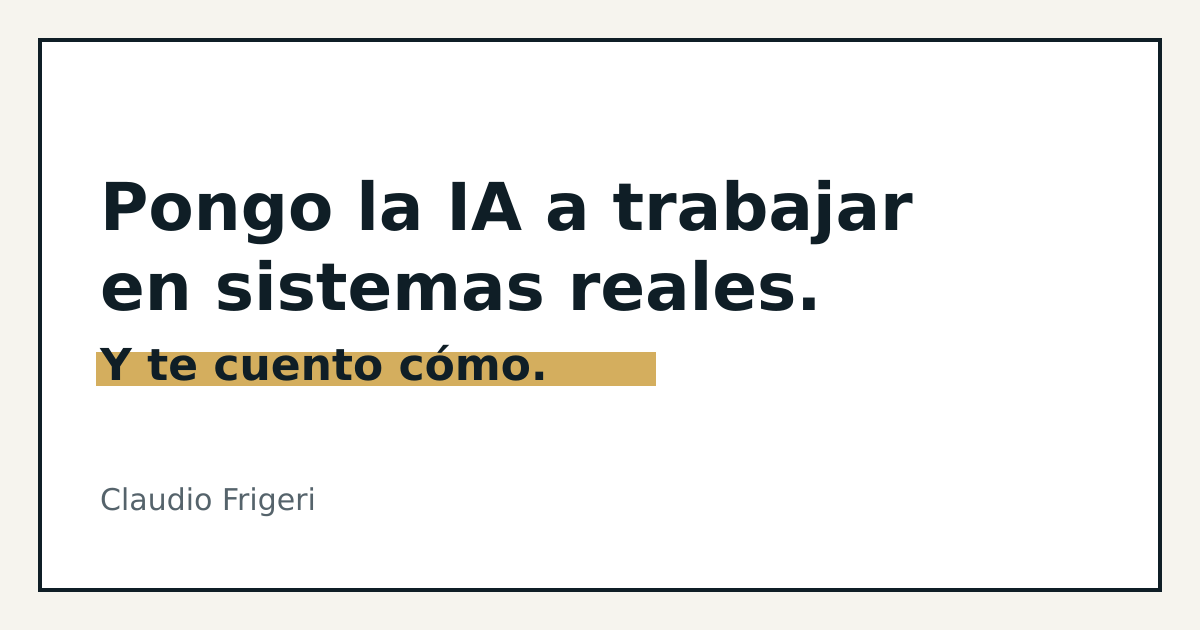
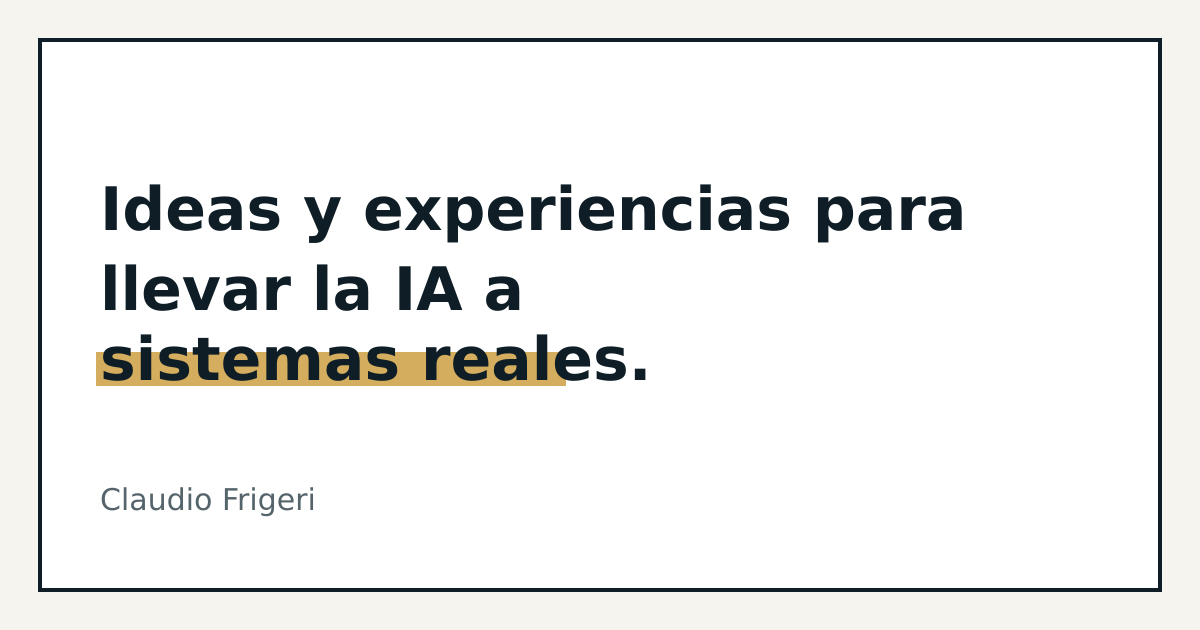
Portada: titular nuevo, sin sección de casos y menú de tres opciones
Claude-Session: https://claude.ai/code/session_01SM9Anh8iQFBrL4DiQMgejn

Changed region(s): [[0.0617, 0.2714, 0.8017, 0.6333]]

diff --git a/src/styles/main.scss b/src/styles/main.scss
@@ -98,7 +98,7 @@ h1, h2, h3 { text-wrap: balance; }
 // ---------- Portada ----------
 .hero { padding: clamp(44px, 7vw, 96px) 0 clamp(48px, 7vw, 88px); }
 .hero-grid { display: grid; grid-template-columns: 1.35fr 1fr; gap: clamp(32px, 6vw, 88px); align-items: center; }
-.hero h1 { font-stretch: 108%; font-size: clamp(2.7rem, 6.6vw, 5.4rem); line-height: 1; letter-spacing: -.02em; margin: 0; }
+.hero h1 { font-stretch: 106%; font-size: clamp(2.4rem, 5vw, 4.2rem); line-height: 1.02; letter-spacing: -.02em; margin: 0; }
 .resaltado { background: linear-gradient(transparent 58%, $oro 58%, $oro 92%, transparent 92%); padding: 0 .06em; }
 .hero p { font-size: clamp(1.1rem, 1.5vw, 1.28rem); line-height: 1.6; color: $gris; max-width: 46ch; margin: 28px 0 34px; }
 .hero p strong { color: $tinta; font-weight: 600; }
@@ -122,15 +122,6 @@ h1, h2, h3 { text-wrap: balance; }
 .seccion-cabeza { display: flex; justify-content: space-between; align-items: end; gap: 24px; flex-wrap: wrap; margin-bottom: clamp(32px, 5vw, 52px); }
 .seccion-cabeza h2, .titulo-grande { font-stretch: 108%; font-size: clamp(2.1rem, 4.4vw, 3.5rem); line-height: 1.02; letter-spacing: -.015em; max-width: 18ch; margin: 0; }
 .seccion-cabeza p { color: $gris; max-width: 44ch; line-height: 1.55; margin: 0; }
-
-.casos { display: grid; grid-template-columns: repeat(3, 1fr); gap: 24px; }
-.caso { border: 2px solid $tinta; background: $blanco; padding: clamp(22px, 2.6vw, 32px); display: grid; gap: 14px; align-content: start; box-shadow: 6px 6px 0 $tinta; }
-.caso h3 { font-stretch: 104%; font-size: clamp(1.35rem, 2vw, 1.65rem); line-height: 1.12; margin: 0; }
-.caso dl { margin: 0; display: grid; gap: 10px; }
-.caso dt { font-weight: 600; font-size: .92rem; color: $petroleo; }
-.caso dd { margin: 0; line-height: 1.55; color: #33424A; }
-.caso .pregunta { margin: 6px 0 0; padding-top: 14px; border-top: 2px dashed $suave; font-style: italic; color: $gris; }
-.caso .pregunta a { font-style: normal; }
 
 .oscura { background: $tinta; color: $papel; }
 .oscura .seccion-cabeza h2 { color: $papel; }
@@ -212,7 +203,7 @@ h1, h2, h3 { text-wrap: balance; }
 
 @include media-breakpoint-down(lg) {
   .hero-grid, .escritos, .invitacion, .dos-columnas { grid-template-columns: 1fr; }
-  .casos, .ideas { grid-template-columns: 1fr; }
+  .ideas { grid-template-columns: 1fr; }
   .temas .marco { grid-template-columns: 1fr 1fr; }
   .temas .marco > * { border-left: 0; border-top: 2px solid $tinta; padding-left: 0; }
   .temas .marco > :first-child { grid-column: 1 / -1; border-top: 0; padding: 18px 0 6px; }

diff --git a/docs/superpowers/specs/2026-10-27-sitio-web-personal-design.md b/docs/superpowers/specs/2026-10-27-sitio-web-personal-design.md
@@ -241,3 +241,10 @@ Reemplaza la dirección visual y de tono de la sección 14 (se mantiene la regla
 - **Visual:** fondo papel `#F6F4EE`, tinta `#0F1E26`, azul petróleo `#163A4A`, dorado `#D4AE5E`; bordes de 2px y sombras duras; foto en formato polaroid.
 - **Portada:** titular "Pongo la IA a trabajar en sistemas reales. Y te cuento cómo.", fila de temas, "Problemas que me tocó destrabar" (tres casos, cada uno con una pregunta que invita a escribir), banda oscura "Cómo pienso la IA dentro de un sistema" con el diagrama y tres ideas, "Lo que voy escribiendo" y un bloque final "¿Estás peleando con algo parecido?".
 - **Menú:** Artículos, Lo que resolví, Sobre mí, Escribime.
+
+## 16. Ajustes de portada (2026-11-16)
+
+- Titular: "Ideas y experiencias para llevar la IA a sistemas reales." La bajada presenta a Claudio.
+- Se elimina la sección de casos resueltos y el sello de la foto.
+- Menú: Artículos, Sobre mí, Escribime.
+- Orden de la portada: hero, temas, artículos, "Cómo pienso la IA dentro de un sistema" y cierre con invitación a escribir.
